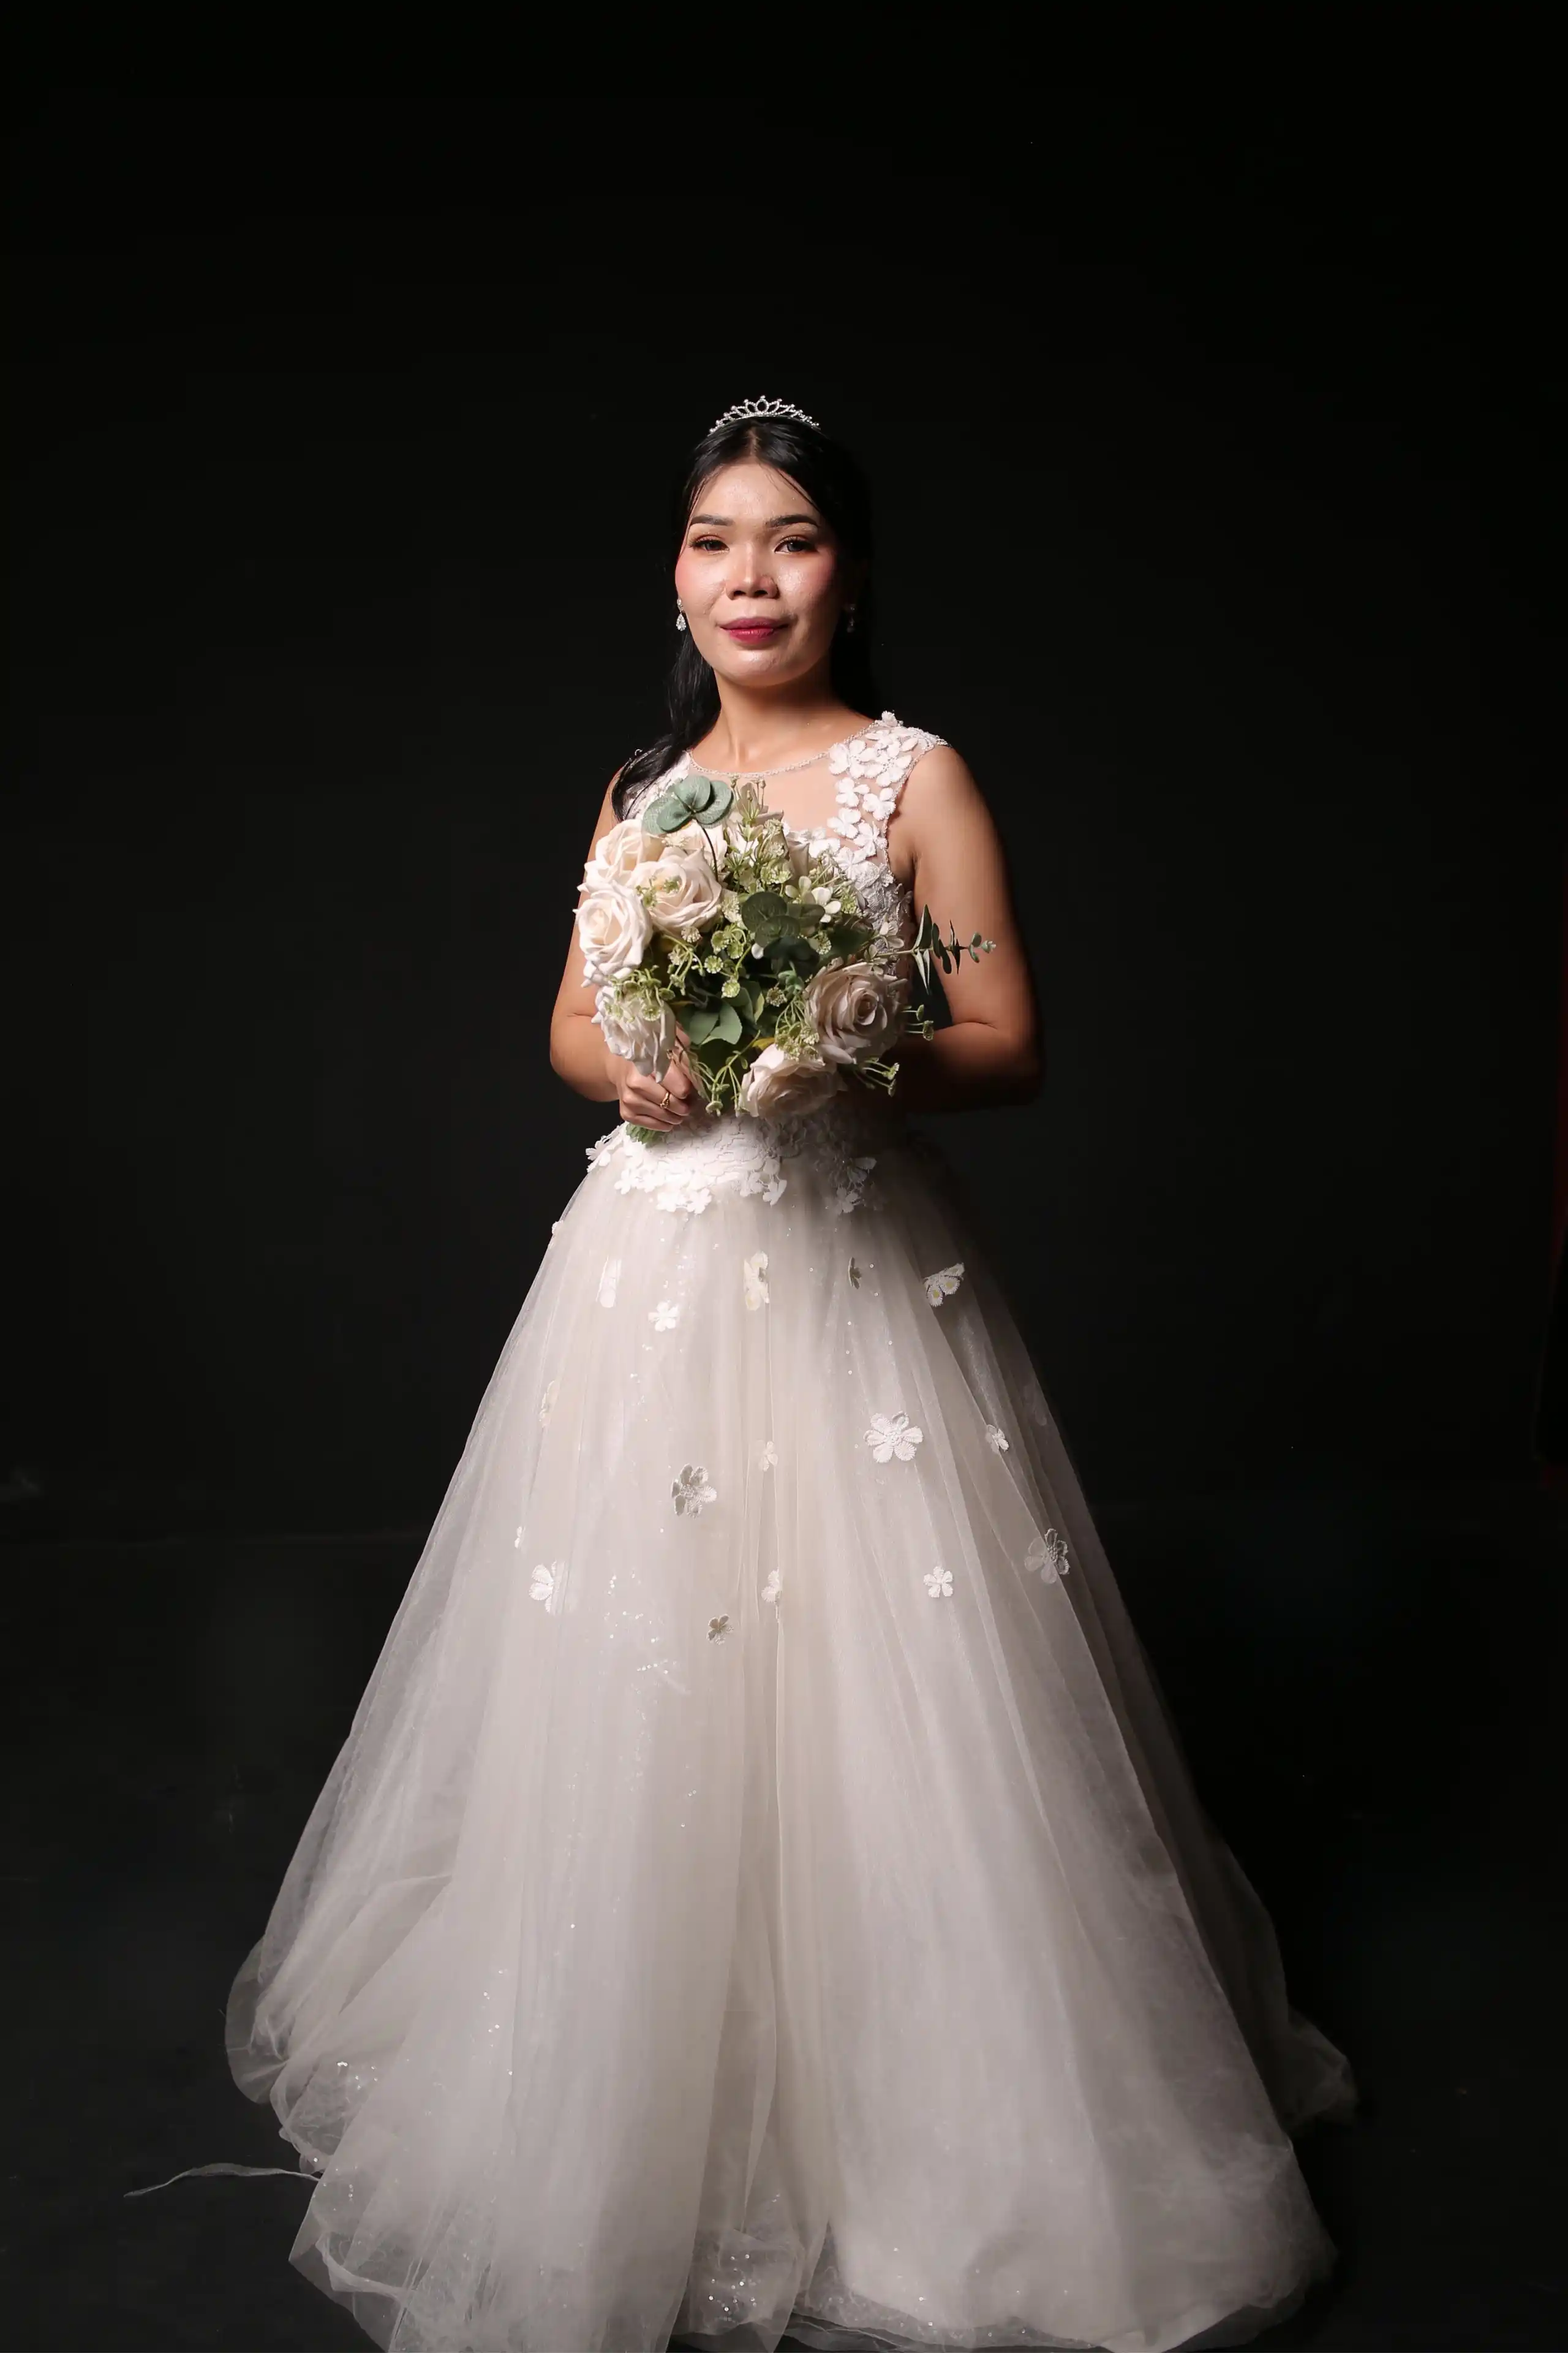
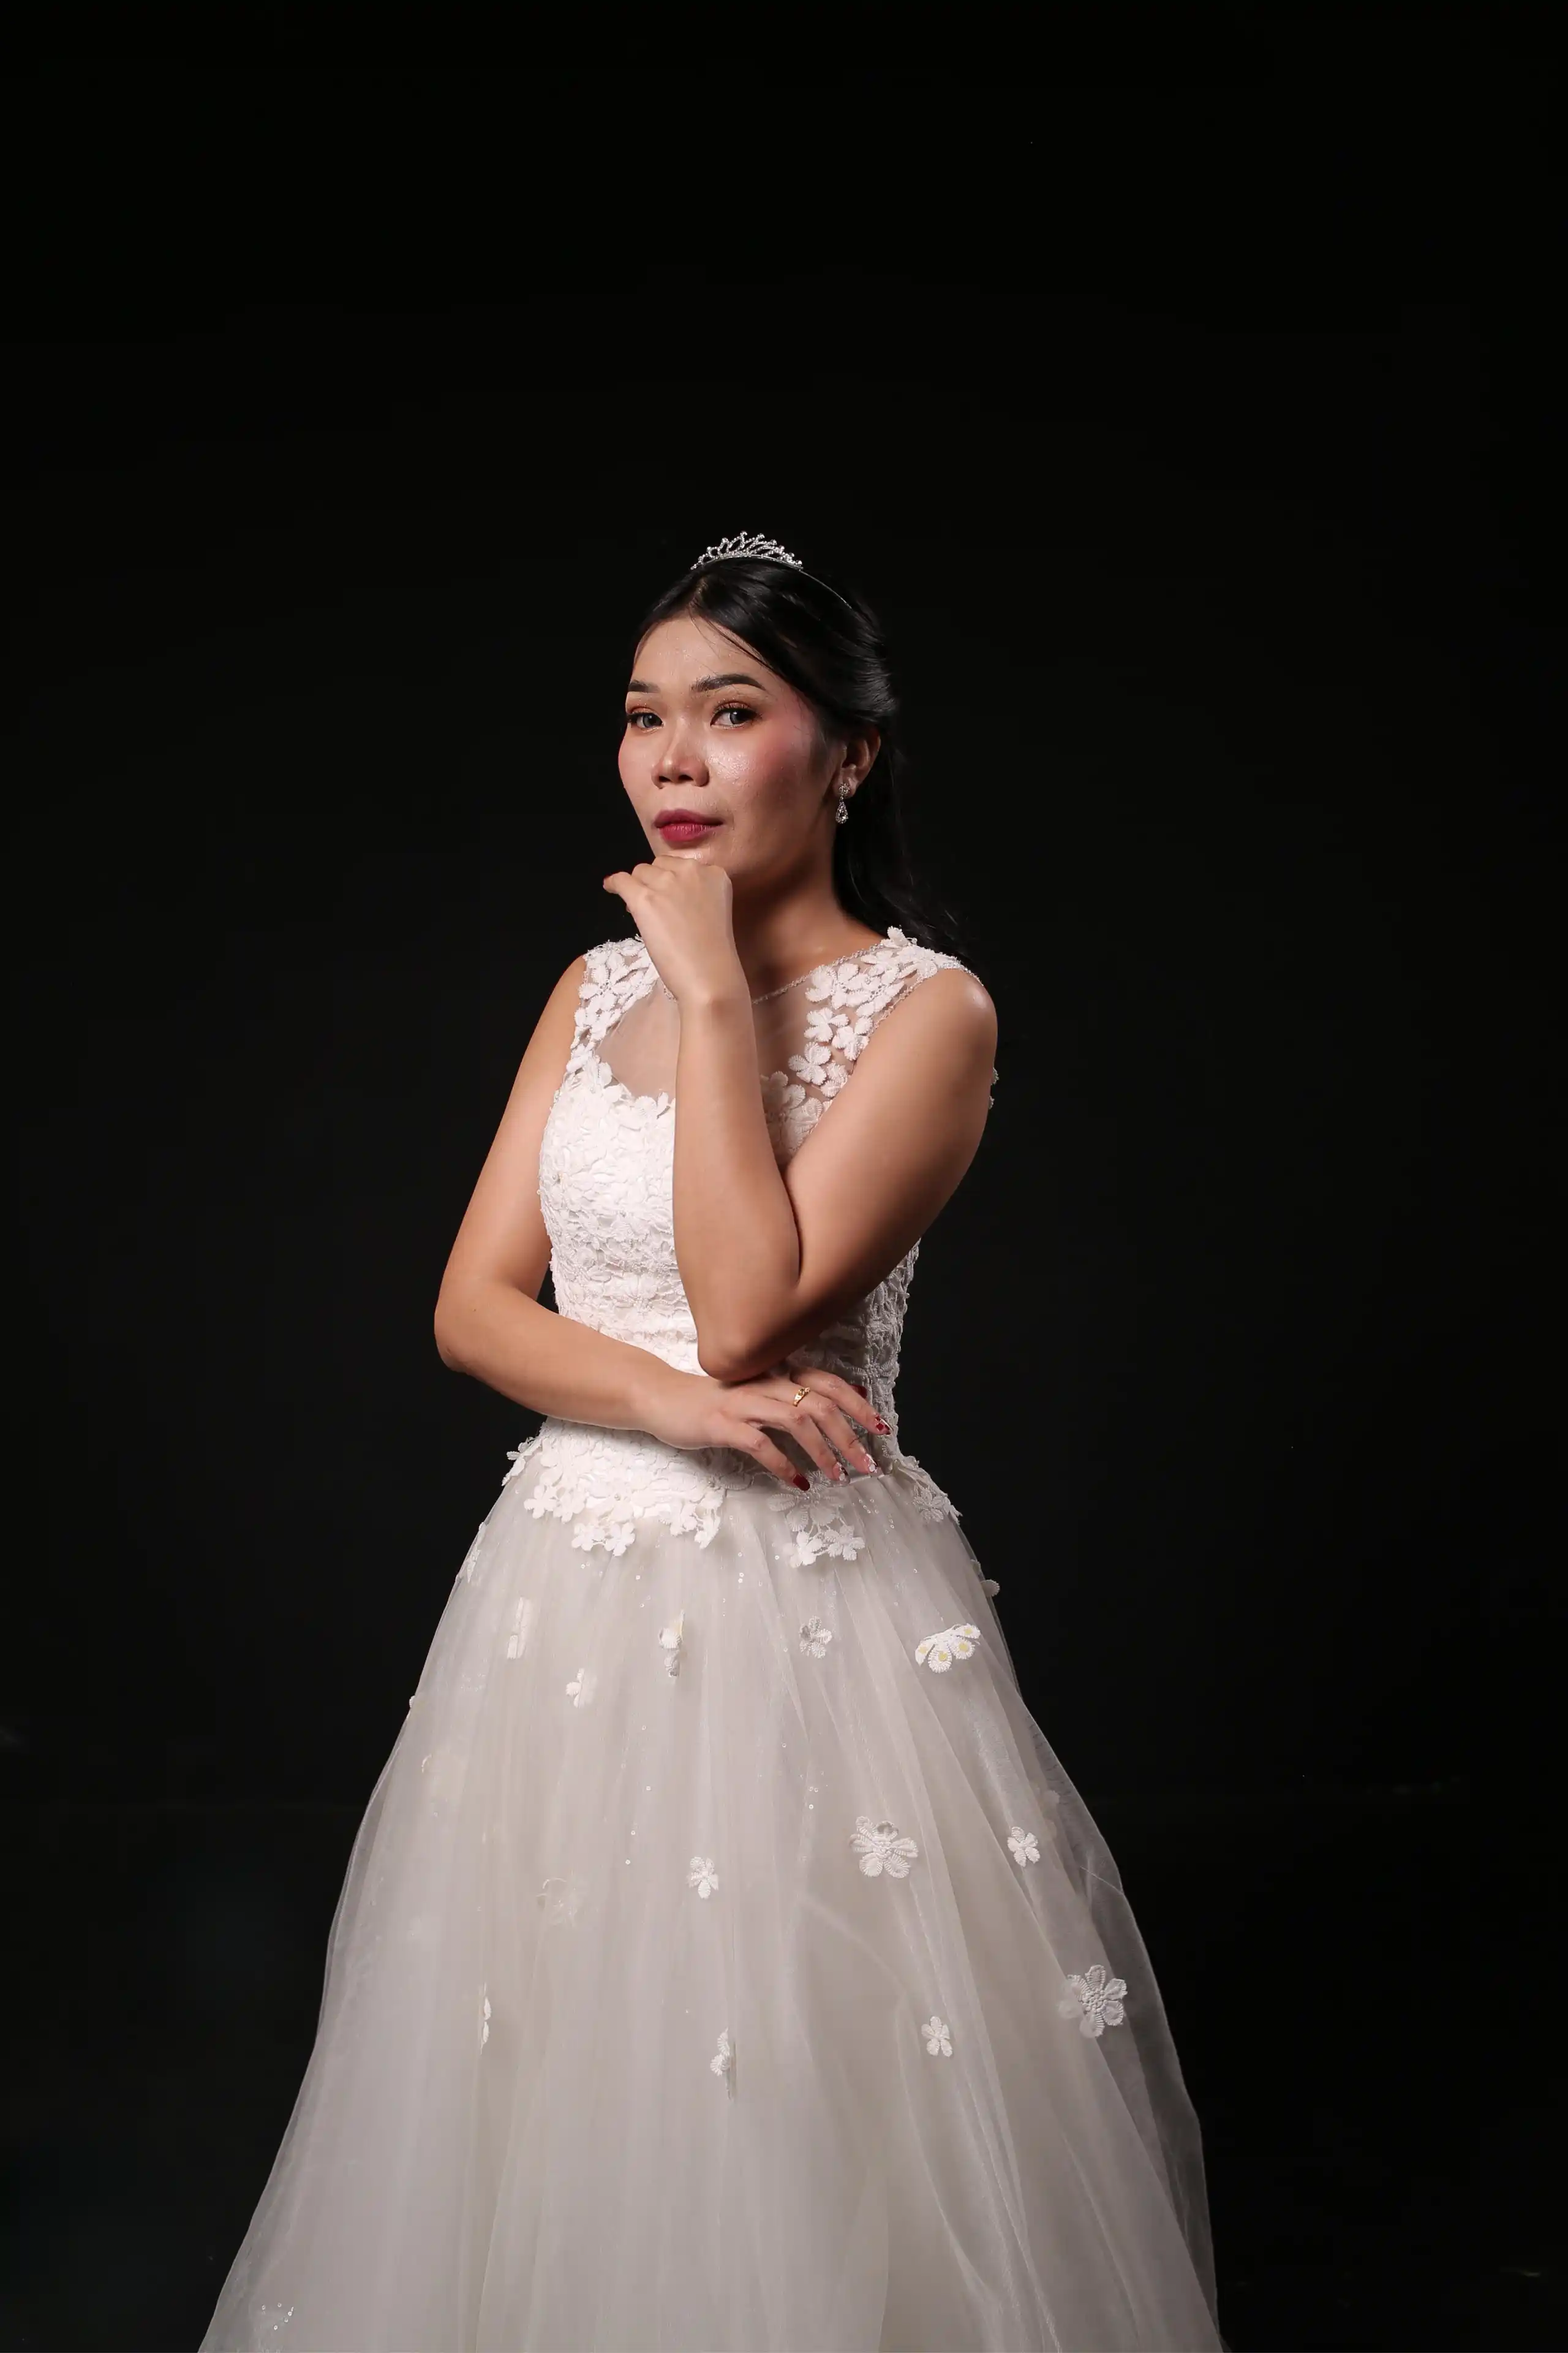
Change Photo BRIDE and Closing

diff --git a/assets/undangan.css b/assets/undangan.css
@@ -5603,53 +5603,47 @@ button {
 
 /* 7. Closing photo frame */
 .closing-photo-frame {
-  position: relative;
-  width: 100%;
-  max-width: 380px;
-  height: clamp(260px, 45vw, 360px);
-  margin: 0 auto 30px;
+    position: relative;
+    width: 100%;
+    max-width: 380px;
+    height: clamp(260px, 45vw, 360px);
+    margin: 0 auto 30px;
 
-  border: 2px solid rgba(216, 167, 76, 0.75);
-  border-radius: 180px 180px 24px 24px;
-  overflow: hidden;
+    border: 2px solid rgba(216, 167, 76, 0.75);
+    border-radius: 180px 180px 24px 24px;
+    overflow: hidden;
 
-  background: #210304;
+    background: #210304;
 
-  box-shadow:
-    0 14px 30px rgba(0, 0, 0, 0.3),
-    inset 0 0 20px rgba(0, 0, 0, 0.2);
+    box-shadow:
+        0 14px 30px rgba(0, 0, 0, 0.3),
+        inset 0 0 20px rgba(0, 0, 0, 0.2);
 }
 
 .closing-photo-frame img {
-  display: block;
-  width: 100%;
-  height: 100%;
+    display: block;
+    width: 100%;
+    height: 100%;
 
-  object-fit: cover;
-  object-position: center;
+    object-fit: cover;
+    object-position: center;
 
-  filter: saturate(0.9) brightness(0.95);
+    /* Mengurangi kesan overexposed */
+    filter:
+        brightness(0.86)
+        contrast(1.08)
+        saturate(0.92);
 
-  transition: transform 1s ease;
+    transition: transform 1s ease;
 }
 
 .closing-photo-frame:hover img {
-  transform: scale(1.05);
+    transform: scale(1.05);
 }
 
 /* Photo shine */
-.photo-overlay-shine {
-  position: absolute;
-  inset: 0;
-
-  background: linear-gradient(
-    135deg,
-    rgba(255, 255, 255, 0.16) 0%,
-    rgba(255, 255, 255, 0.03) 35%,
-    transparent 65%
-  );
-
-  pointer-events: none;
+.closing-photo-frame .photo-overlay-shine {
+    background: transparent;
 }
 
 /* 8. Signature */
